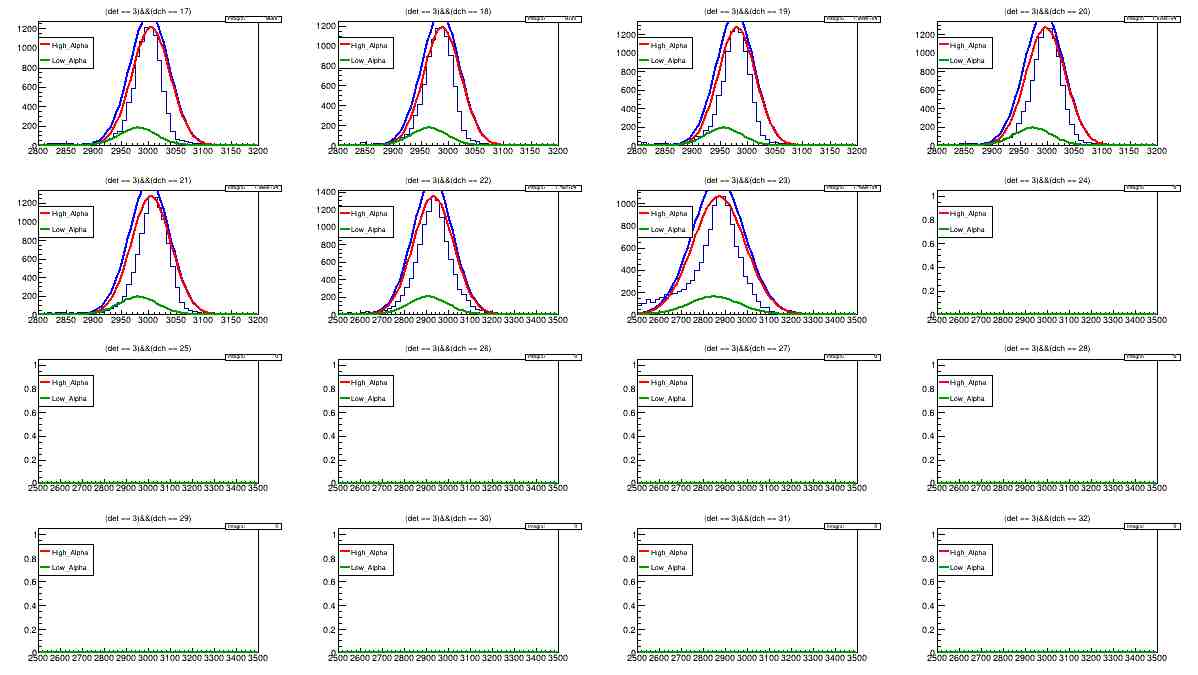
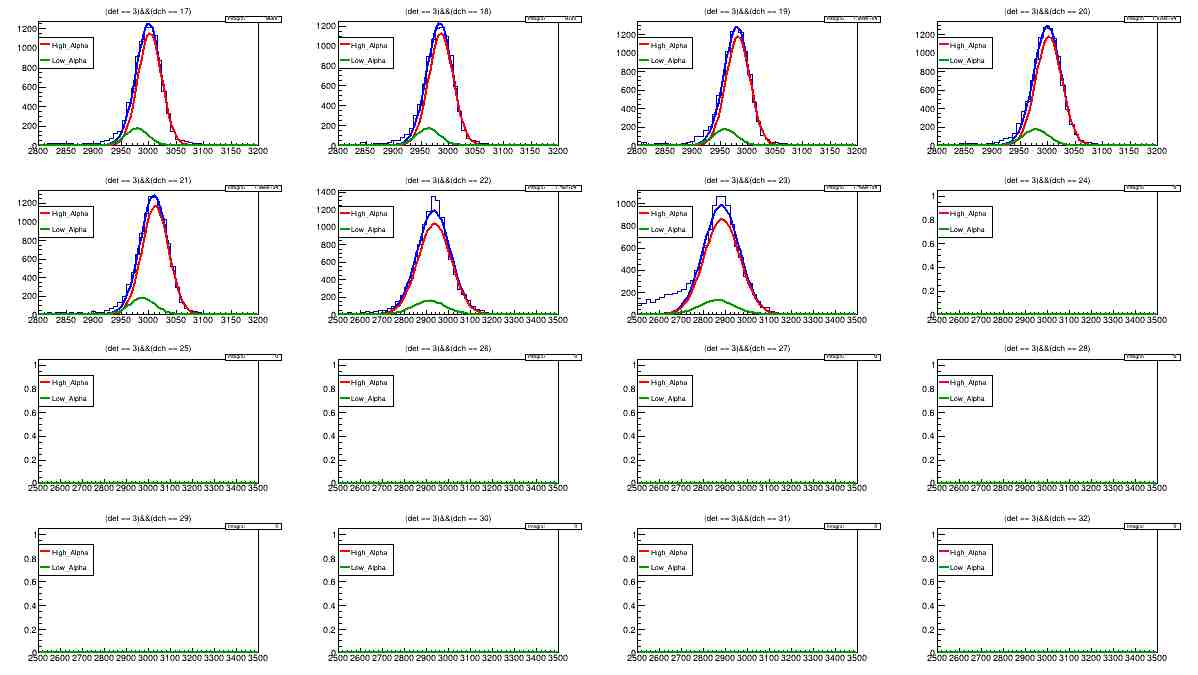
240816 v.1

diff --git a/prac_root/two_peak_240811.c b/prac_root/two_peak_240811.c
@@ -125,12 +125,8 @@ void two_peak_240811(){
 					}
 				}
 
-				else if(det ==2 && dch == 24){
-					hist -> Fit(fit, "RN");
-				}
-				else{
-					hist -> Fit(fit,"RQN");
-				}
+				
+				hist -> Fit(fit,"RQN");
 				gStyle -> SetOptStat("i");
 				fit -> SetLineColor(kBlue);
 				fit -> SetRange(x1,x2);
@@ -197,8 +193,8 @@ void two_peak_240811(){
 						
 				detector = (Short_t)det;
 				channel = (Short_t)dch;
-				t1 -> Fill();
-				constant_file << a <<" " << b << " " << det << " " << dch << endl;
+			//	t1 -> Fill();
+			//	constant_file << a <<" " << b << " " << det << " " << dch << endl;
 				
 			//	cout << det << " "<< dch << " " << mean1 << " " << sigma1 << " " << mean2 << " " << sigma2 << endl;
 		//		cout << mean1 / mean2 << " " << 5.486 / 5.443 << endl;
@@ -210,10 +206,10 @@ void two_peak_240811(){
 		c2 -> SaveAs(Form("figures_det%d_2.jpg",det));
 	}
 
-	t1 -> Write();
-	t1 -> Print();
-	write -> Close();
-	constant_file.close();
+//	t1 -> Write();
+//	t1 -> Print();
+//	write -> Close();
+//	constant_file.close();
 }
 
 
